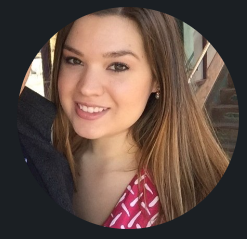
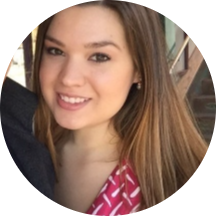
added taniya as a member and fixed vibe lab nav bar navigation

diff --git a/about-us.html b/about-us.html
@@ -24,7 +24,7 @@
       <a href="k12.html" class="nav-link">K-12</a>
       <a href="higher-ed.html" class="nav-link">Higher Ed</a>
       <a href="students.html" class="nav-link">Students</a>
-      <a href="vibe-coding.html" class="nav-link nav-highlight">Vibe Lab</a>
+      <a href="vibe-lab.html" class="nav-link nav-highlight">Vibe Lab</a>
       <div class="nav-dropdown">
         <a href="#" class="nav-dropdown-toggle">
           About Us
@@ -336,6 +336,16 @@
     <div class="team-grid fade-up">
       <div class="team-member" data-member="1">
         <div class="member-photo">
+          <img src="static/images/taniya-headshot.jpg" alt="Taniya Mishra" style="width: 80px; height: 80px; border-radius: 50%; object-fit: cover; margin: 0 auto; display: block;">
+        </div>
+        <div class="member-info">
+          <h4 class="member-name">Taniya Mishra</h4>
+          <p class="member-role">CEO</p>
+        </div>
+      </div>
+      
+      <div class="team-member" data-member="2">
+        <div class="member-photo">
           <img src="static/images/ashleen.jpg" alt="Ashleen Sullivan" style="width: 80px; height: 80px; border-radius: 50%; object-fit: cover; margin: 0 auto; display: block;">
         </div>
         <div class="member-info">
@@ -344,7 +354,7 @@
         </div>
       </div>
       
-      <div class="team-member" data-member="2">
+      <div class="team-member" data-member="3">
         <div class="member-photo">
           <img src="static/images/nicholas.jpg" alt="Nicholas Glading" style="width: 80px; height: 80px; border-radius: 50%; object-fit: cover; margin: 0 auto; display: block;">
         </div>
@@ -354,7 +364,7 @@
         </div>
       </div>
       
-      <div class="team-member" data-member="3">
+      <div class="team-member" data-member="4">
         <div class="member-photo">
           <img src="static/images/kim.jpg" alt="Kim Parnell" style="width: 80px; height: 80px; border-radius: 50%; object-fit: cover; margin: 0 auto; display: block;">
         </div>
@@ -364,7 +374,7 @@
         </div>
       </div>
       
-      <div class="team-member" data-member="4">
+      <div class="team-member" data-member="5">
         <div class="member-photo">
           <img src="static/images/betty.jpg" alt="Betty Wong" style="width: 80px; height: 80px; border-radius: 50%; object-fit: cover; margin: 0 auto; display: block;">
         </div>
@@ -374,7 +384,7 @@
         </div>
       </div>
       
-      <div class="team-member" data-member="5">
+      <div class="team-member" data-member="6">
         <div class="member-photo">
           <img src="static/images/Ericka Corral_headshot .png" alt="Ericka Corral" style="width: 80px; height: 80px; border-radius: 50%; object-fit: cover; margin: 0 auto; display: block;">
         </div>
@@ -384,7 +394,7 @@
         </div>
       </div>
       
-      <div class="team-member" data-member="6">
+      <div class="team-member" data-member="7">
         <div class="member-photo">
           <img src="static/images/Robin.png" alt="Robin Kondrup" style="width: 80px; height: 80px; border-radius: 50%; object-fit: cover; margin: 0 auto; display: block;">
         </div>
@@ -494,36 +504,42 @@ document.addEventListener('DOMContentLoaded', function() {
   // Team member data with actual biographical information
   const teamData = {
     1: { 
+      name: 'Taniya Mishra', 
+      role: 'CEO', 
+      image: 'static/images/taniya-headshot.jpg',
+      bio: 'Dr. Taniya Mishra, is the founder & CEO of SureStart, a NYC-based AI education startup that provides mentoring-centered AI programs for K-12 students globally. SureStart\'s AI programs, implemented through work with top tech universities like MIT and Carnegie Mellon University, widen participation in the AI ecosystem by equipping students with AI skills, leadership and innovation competencies, and standout portfolios that pave the way to top universities, internships, and careers. With 15+ years in AI, including roles at AT&T Research, Affectiva, and Interactions, Taniya holds 50+ patents, has been featured in Fortune, MIT Tech Review, and The Atlantic, and was named among NASDAQ\'s 25 Leading Women in AI and ASU+GSV Innovators of Color (2025).' 
+    },
+    2: { 
       name: 'Ashleen Sullivan', 
       role: 'Head of Marketing & Programs', 
       image: 'static/images/ashleen.jpg',
       bio: 'Ashleen Sullivan is the Head of Marketing & Programs at SureStart, where she leads strategic marketing initiatives and program development and implementation to expand the reach and impact of transformative AI education for K–12 students and schools. Drawing on her startup experience at Boston-based tech companies such as PatientsLikeMe and Affectiva, Ashleen brings creativity, strategic clarity, and a deep focus on execution to dynamic, fast-paced environments. Since joining SureStart in 2021, she has built and scaled programs, strengthened partnerships, and developed messaging that amplifies SureStart\'s mission to prepare the next generation of students for an AI-driven future.' 
     },
-    2: { 
+    3: { 
       name: 'Nicholas Glading', 
       role: 'Head of Learning Experience Design', 
       image: 'static/images/nicholas.jpg',
       bio: 'Nicholas Glading leads the learning experience design and implementation of SureStart\'s AI curriculum at SureStart with a creative lens focused on making even the most complex and technical concepts engaging and relatable to young learners. With almost 20 years of experience leading teams and creating online academic curricula, Nicholas excels at designing authentic learning experiences focused on real-world applications that connect with students of all ages and backgrounds. He thrives on leveraging an empathetic mindset to innovate dynamic instructional solutions and to nurture genuine and enriching collaborative relationships with a shared human connection.' 
     },
-    3: { 
+    4: { 
       name: 'Kim Parnell', 
       role: 'Senior Program Manager', 
       image: 'static/images/kim.jpg',
       bio: 'Kim Parnell is the Senior Program Manager at SureStart, where she designs impactful learning experiences and fosters mentorship to help students excel in AI and technology. Drawing on her entrepreneurial background and experiences mentoring through organizations like TKS and Founder Institute, Kim empowers young minds to think boldly and act confidently. Previously, she led the tech startup Truebase as CEO, where she developed innovative data architecture solutions, and founded a successful commercial cleaning business. Kim\'s diverse expertise spans entrepreneurship, technology, and youth development, making her a dynamic leader in the education space. She is passionate about equipping the next generation with the skills and mindset to tackle the challenges of tomorrow.' 
     },
-    4: { 
+    5: { 
       name: 'Betty Wong', 
       role: 'Head of Finance', 
       image: 'static/images/betty.jpg',
       bio: 'Betty Wong is the Head of Finance at SureStart, where she oversees business compliance, financial operations, and accounting functions, including invoicing, tax preparation, and cash flow management. A seasoned entrepreneur and former educator, Betty brings a strategic, solutions-oriented approach rooted in deep operational expertise and a passion for mission-driven work. In addition to her role at SureStart, she remains active as a mentor and advisor for organizations that advance equity and innovation.' 
     },
-    5: { 
+    6: { 
       name: 'Ericka Corral', 
       role: 'Educational AI Content Developer & Community Manager', 
       image: 'static/images/Ericka Corral_headshot .png',
       bio: 'Ericka Corral (they/them) is currently pursuing a Ph.D. in Computer Science at the University of Denver. Their research focuses on mitigating bias in large language models and developing ethical guidelines for their design and use. When they\'re not coding or mentoring students as a teaching assistant at DU, Ericka is working on creating a curriculum for tech education as an Educational AI Content Developer and Community Manager with SureStart. Their mission is to make technology accessible, ensure it\'s fair, and inspire us all to approach powerful tools like AI with thoughtful ethics.' 
     },
-    6: { 
+    7: { 
       name: 'Robin Kondrup', 
       role: 'Personal/Executive Assistant to the CEO & Founder', 
       image: 'static/images/Robin.png',

diff --git a/vibe-lab.html b/vibe-lab.html
@@ -25,8 +25,18 @@
       <a href="higher-ed.html" class="nav-link">Higher Ed</a>
       <a href="students.html" class="nav-link">Students</a>
       <a href="vibe-lab.html" class="nav-link nav-highlight">Vibe Lab</a>
-      <a href="about-us.html" class="nav-link">About Us</a>
-      <a href="impact-stories.html" class="nav-link">Impact Stories</a>
+      <div class="nav-dropdown">
+        <a href="#" class="nav-dropdown-toggle">
+          About Us
+          <svg class="dropdown-icon" width="12" height="12" viewBox="0 0 24 24" fill="none" stroke="currentColor" stroke-width="2">
+            <path d="M6 9l6 6 6-6"/>
+          </svg>
+        </a>
+        <div class="nav-dropdown-menu">
+          <a href="about-us.html" class="nav-dropdown-item">About Us</a>
+          <a href="impact-stories.html" class="nav-dropdown-item">Impact Stories</a>
+        </div>
+      </div>
       <a href="contact-us.html" class="nav-link nav-cta">Contact Us</a>
     </div>
     <button class="nav-toggle" aria-label="Toggle menu">

diff --git a/vibe-coding.html b/vibe-coding.html
@@ -24,7 +24,7 @@
       <a href="k12.html" class="nav-link">K-12</a>
       <a href="higher-ed.html" class="nav-link">Higher Ed</a>
       <a href="students.html" class="nav-link">Students</a>
-      <a href="vibe-coding.html" class="nav-link nav-highlight">Vibe Lab</a>
+      <a href="vibe-lab.html" class="nav-link nav-highlight">Vibe Lab</a>
       <div class="nav-dropdown">
         <a href="#" class="nav-dropdown-toggle">
           About Us
@@ -632,7 +632,7 @@
           <h4>Programs</h4>
           <a href="k12.html">K-12</a>
           <a href="higher-ed.html">Higher Ed</a>
-          <a href="vibe-coding.html">Vibe Lab</a>
+          <a href="vibe-lab.html">Vibe Lab</a>
           <a href="index.html#programs">All Courses</a>
         </div>
         <div class="footer-column">

diff --git a/contact-us.html b/contact-us.html
@@ -24,7 +24,7 @@
       <a href="k12.html" class="nav-link">K-12</a>
       <a href="higher-ed.html" class="nav-link">Higher Ed</a>
       <a href="students.html" class="nav-link">Students</a>
-      <a href="vibe-coding.html" class="nav-link nav-highlight">Vibe Lab</a>
+      <a href="vibe-lab.html" class="nav-link nav-highlight">Vibe Lab</a>
       <div class="nav-dropdown">
         <a href="#" class="nav-dropdown-toggle">
           About Us

diff --git a/higher-ed.html b/higher-ed.html
@@ -24,7 +24,7 @@
       <a href="k12.html" class="nav-link">K-12</a>
       <a href="higher-ed.html" class="nav-link">Higher Ed</a>
       <a href="students.html" class="nav-link">Students</a>
-      <a href="vibe-coding.html" class="nav-link nav-highlight">Vibe Lab</a>
+      <a href="vibe-lab.html" class="nav-link nav-highlight">Vibe Lab</a>
       <div class="nav-dropdown">
         <a href="#" class="nav-dropdown-toggle">
           About Us

diff --git a/impact-stories.html b/impact-stories.html
@@ -37,7 +37,7 @@
       <a href="k12.html" class="nav-link">K-12</a>
       <a href="higher-ed.html" class="nav-link">Higher Ed</a>
       <a href="students.html" class="nav-link">Students</a>
-      <a href="vibe-coding.html" class="nav-link nav-highlight">Vibe Lab</a>
+      <a href="vibe-lab.html" class="nav-link nav-highlight">Vibe Lab</a>
       <div class="nav-dropdown">
         <a href="#" class="nav-dropdown-toggle">
           About Us

diff --git a/index.html b/index.html
@@ -23,7 +23,7 @@
       <a href="k12.html" class="nav-link">K-12</a>
       <a href="higher-ed.html" class="nav-link">Higher Ed</a>
       <a href="students.html" class="nav-link">Students</a>
-      <a href="vibe-coding.html" class="nav-link nav-highlight">Vibe Lab</a>
+      <a href="vibe-lab.html" class="nav-link nav-highlight">Vibe Lab</a>
       <div class="nav-dropdown">
         <a href="#" class="nav-dropdown-toggle">
           About Us

diff --git a/k12.html b/k12.html
@@ -24,7 +24,7 @@
       <a href="k12.html" class="nav-link">K-12</a>
       <a href="higher-ed.html" class="nav-link">Higher Ed</a>
       <a href="students.html" class="nav-link">Students</a>
-      <a href="vibe-coding.html" class="nav-link nav-highlight">Vibe Lab</a>
+      <a href="vibe-lab.html" class="nav-link nav-highlight">Vibe Lab</a>
       <div class="nav-dropdown">
         <a href="#" class="nav-dropdown-toggle">
           About Us

diff --git a/students.html b/students.html
@@ -24,7 +24,7 @@
       <a href="k12.html" class="nav-link">K-12</a>
       <a href="higher-ed.html" class="nav-link">Higher Ed</a>
       <a href="students.html" class="nav-link">Students</a>
-      <a href="vibe-coding.html" class="nav-link nav-highlight">Vibe Lab</a>
+      <a href="vibe-lab.html" class="nav-link nav-highlight">Vibe Lab</a>
       <div class="nav-dropdown">
         <a href="#" class="nav-dropdown-toggle">
           About Us

diff --git a/vibe-lab.css b/vibe-lab.css
@@ -11,22 +11,6 @@
   color: var(--ss-red) !important;
   font-weight: 600;
 }
-
-.nav-highlight::before {
-  content: 'NEW';
-  position: absolute;
-  top: -8px;
-  right: -20px;
-  background: var(--gradient-primary);
-  color: white;
-  font-size: 10px;
-  font-weight: 700;
-  padding: 2px 6px;
-  border-radius: 10px;
-  animation: pulse 2s infinite;
-  z-index: 10;
-}
-
 .nav-highlight:hover {
   color: var(--ss-accent-1) !important;
 }

diff --git a/about-us.css b/about-us.css
@@ -715,6 +715,7 @@
   margin-bottom: var(--space-lg);
 }
 
+
 .placeholder-avatar {
   width: 80px;
   height: 80px;
